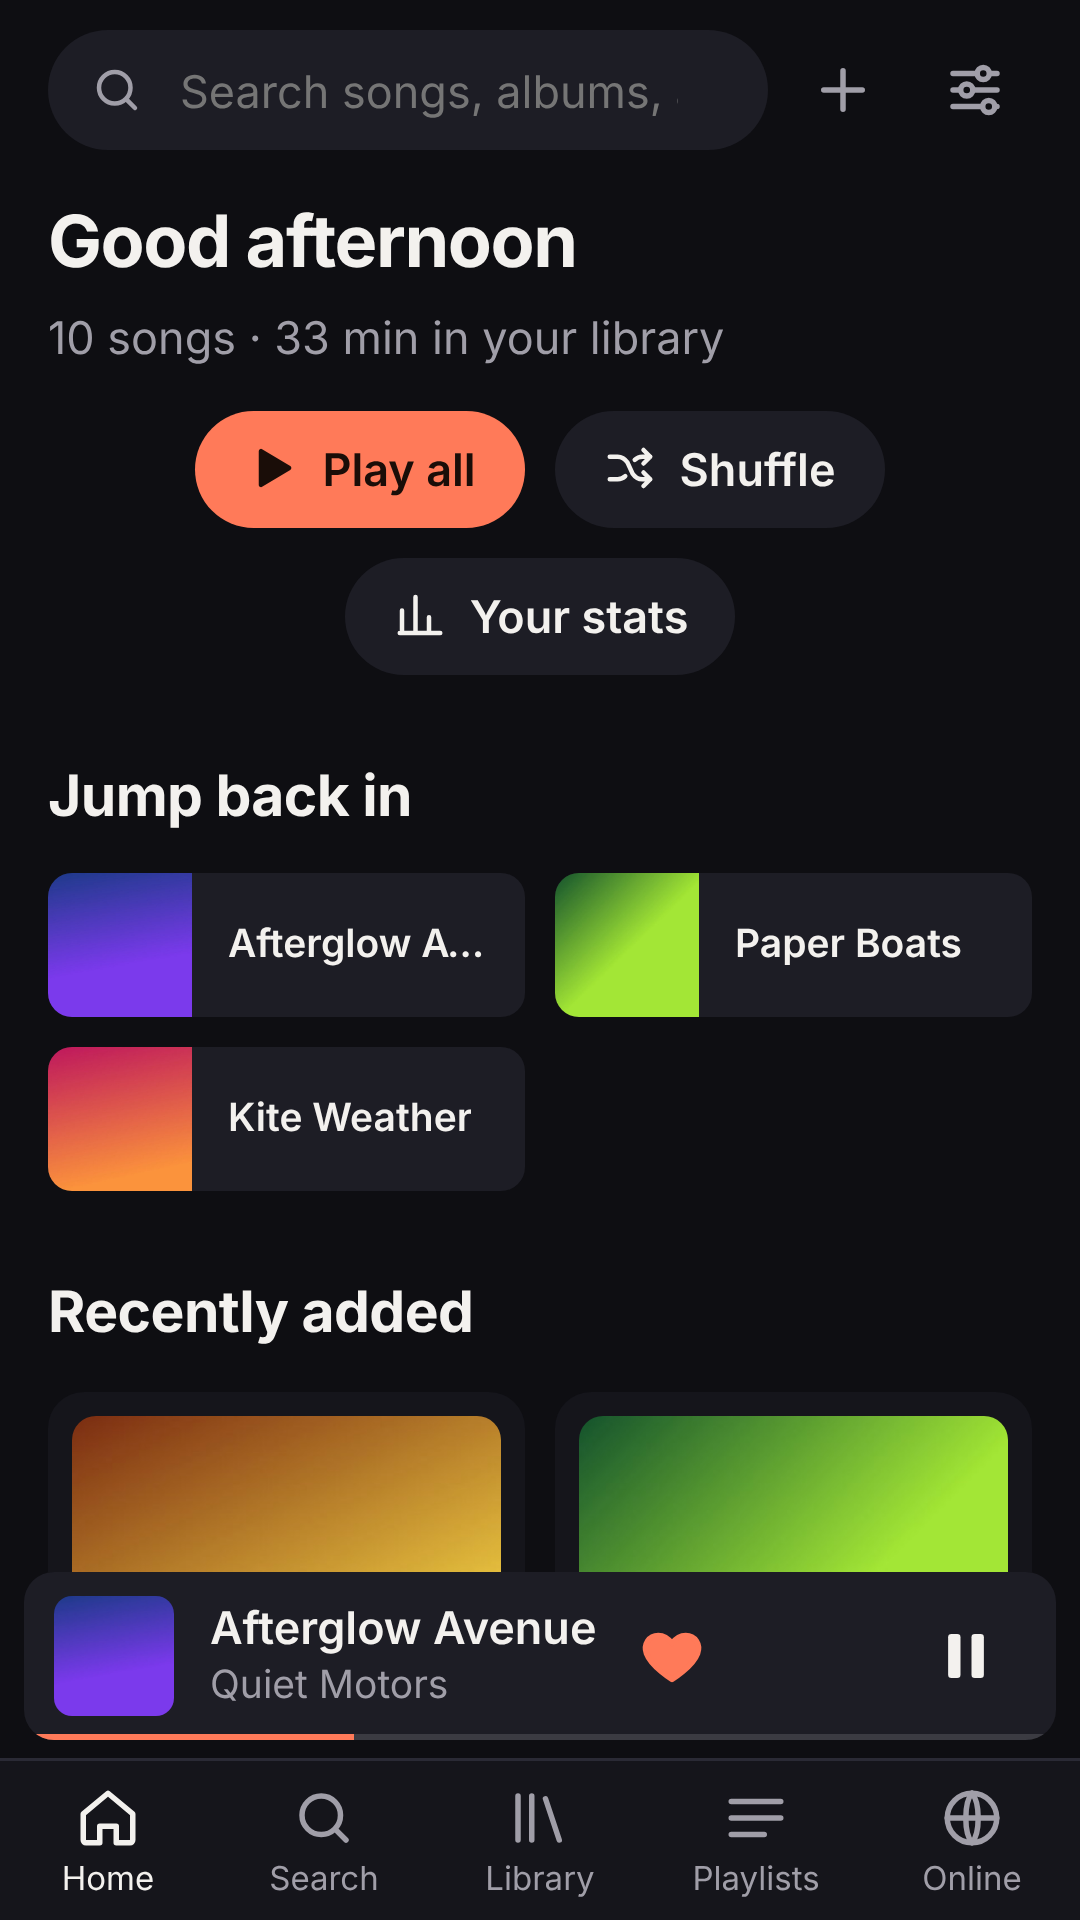
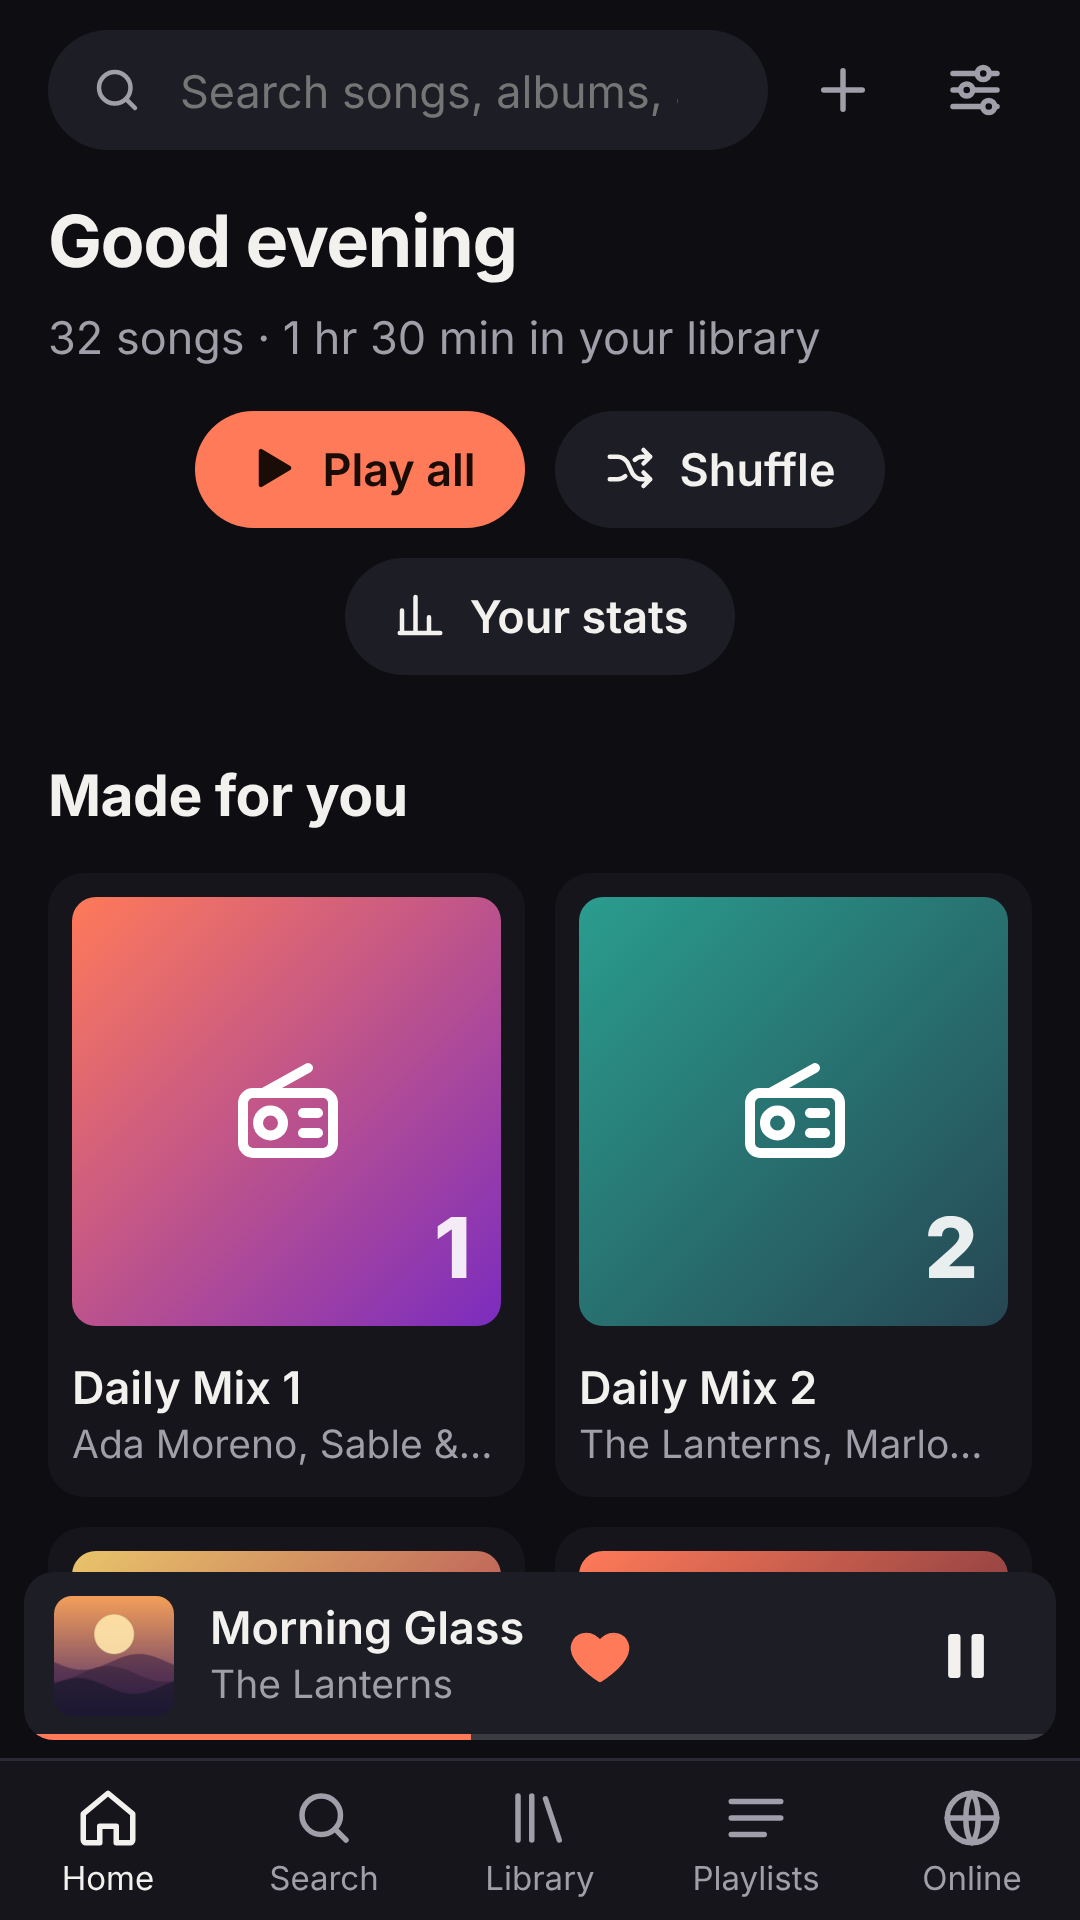
New store screenshots showing Daily Mixes, ratings, year in music and playlists
Claude-Session: https://claude.ai/code/session_01JNgJzBHJevqnhTQjP1F6n7

Changed region(s): [[0.0306, 0.4062, 0.9472, 0.9062], [0.0306, 0.0938, 0.7639, 0.1875]]

diff --git a/app.js b/app.js
@@ -133,7 +133,7 @@ const has = id => S.tracks.has(id) || S.remote.has(id);
 const rowsOf = id => $$('.row').filter(r => r.dataset.id === id);
 // Each theme sets the whole palette; the accent can still be changed on top of it.
 // ---- version and links (bump APP_VERSION together with VERSION in sw.js and ?v= in index.html) ----
-const APP_VERSION = 43;
+const APP_VERSION = 44;
 // Opened as the Google Play app? Google's rules don't allow tips to the developer outside Play billing, so the
 // donate button is left out there. The Play app reports itself through the referrer on its first page load.
 const IN_STORE_APP = (() => { try { if (/^android-app:\/\/io\.github\.sharkey171\.seylumi/.test(document.referrer)) sessionStorage.setItem('cadence-store', '1'); return sessionStorage.getItem('cadence-store') === '1'; } catch { return false; } })();
@@ -142,6 +142,7 @@ const LINKS = {
   donate: 'https://www.paypal.me/sharkeypaul9',      // PayPal.me link for "Support the app" (button hidden when empty)
 };
 const RELEASES = [
+  { v: 44, date: '2026-11-13', notes: ['New store pictures'] },
   { v: 43, date: '2026-11-12', notes: ['Ready for the Google Play version'] },
   { v: 42, date: '2026-11-12', notes: ['Automatic backups: a weekly reminder, or on a computer a backup saved into a folder of your choice every week (Settings → Back up and transfer)'] },
   { v: 41, date: '2026-11-12', notes: ['Podcasts: Up next list (⋯ → Add to Up next), shown at the top of Podcasts', 'Mark episodes as played; finished episodes are marked by themselves', 'Auto-download: new episodes of a show you follow download by themselves while Seylumi is open'] },

diff --git a/index.html b/index.html
@@ -21,7 +21,7 @@
 <link rel="manifest" href="manifest.webmanifest">
 <link rel="icon" href="icons/icon-192.png">
 <link rel="apple-touch-icon" href="icons/apple-touch-icon.png">
-<link rel="stylesheet" href="styles.css?v=43">
+<link rel="stylesheet" href="styles.css?v=44">
 </head>
 <body>
 <div id="app">
@@ -235,7 +235,7 @@
 <input type="file" id="pl-input" multiple accept=".csv,.tsv,.m3u,.m3u8,.pls,.txt,text/csv,audio/x-mpegurl,audio/mpegurl,audio/x-scpls,text/plain" hidden>
 <input type="file" id="dir-input" webkitdirectory multiple hidden>
 <audio id="audio" preload="auto"></audio>
-<script type="module" src="app.js?v=43"></script>
+<script type="module" src="app.js?v=44"></script>
 <script data-goatcounter="https://seylumi.goatcounter.com/count" async src="https://gc.zgo.at/count.js"></script>
 <script>
 (function () {

diff --git a/sw.js b/sw.js
@@ -1,7 +1,7 @@
 // Offline app shell. Music itself lives in IndexedDB / linked folders, not here.
 // Bump VERSION (and the ?v= numbers in index.html) with every release: each version gets its
 // own complete, freshly downloaded set of files, so the page and its script can never mismatch.
-const VERSION = 43;
+const VERSION = 44;
 const CACHE = `cadence-shell-v${VERSION}`;
 const SHELL = [
   './', 'index.html', `styles.css?v=${VERSION}`, `app.js?v=${VERSION}`, 'vendor/music-metadata.js', 'vendor/qr.js',

diff --git a/store/listing.md b/store/listing.md
@@ -63,7 +63,7 @@ Seylumi plays music files you already have. It does not download or provide copy
 
 - **App icon (512 × 512):** `../icons/icon-512.png`
 - **Feature graphic (1024 × 500):** `feature-graphic.png`
-- **Phone screenshots (1080 × 1920):** `1-home.png`, `2-now-playing.png`, `3-albums.png`, `4-radio.png`, `5-free-music.png`, `6-equalizer.png`, `7-stats.png`
+- **Phone screenshots (1080 × 1920), upload in this order:** `1-home.png`, `2-now-playing.png`, `3-daily-mix.png`, `4-albums.png`, `5-year-in-music.png`, `6-radio.png`, `7-playlists.png`, `8-equalizer.png`
 
 ## Answers for the Play Console questionnaires
 
